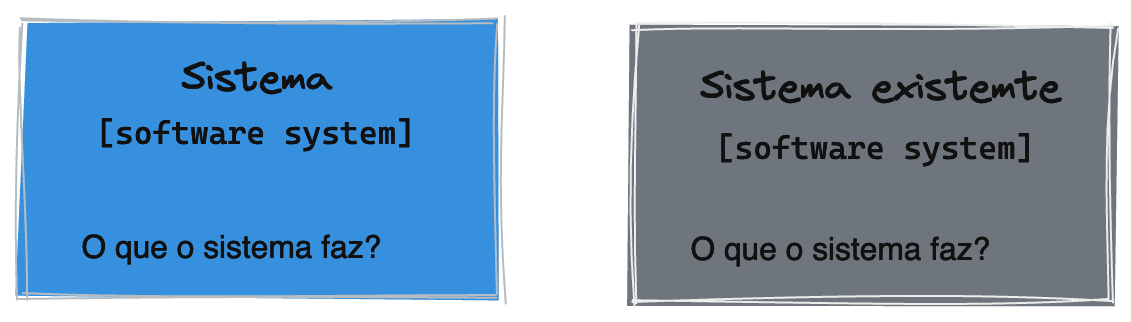
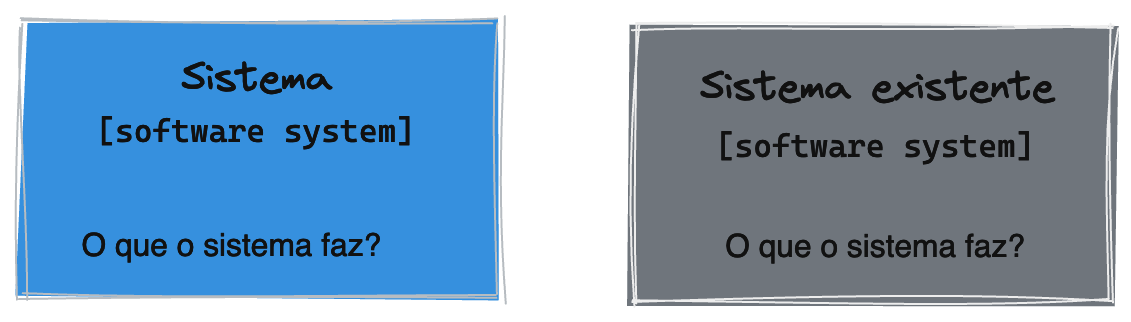
Corrige imagem do Software systems

diff --git a/Slides/Apresentacao.md b/Slides/Apresentacao.md
@@ -311,9 +311,9 @@ Tem como objetivo ser o ponto de entrada, uma visão geral!
 
 ---
 
-#### System Context - Público alvo
+### System Context - Público alvo
 
-Pessoas ténicas e não tecnicas
+**Pessoas ténicas e não tecnicas**
 
 ---
 
